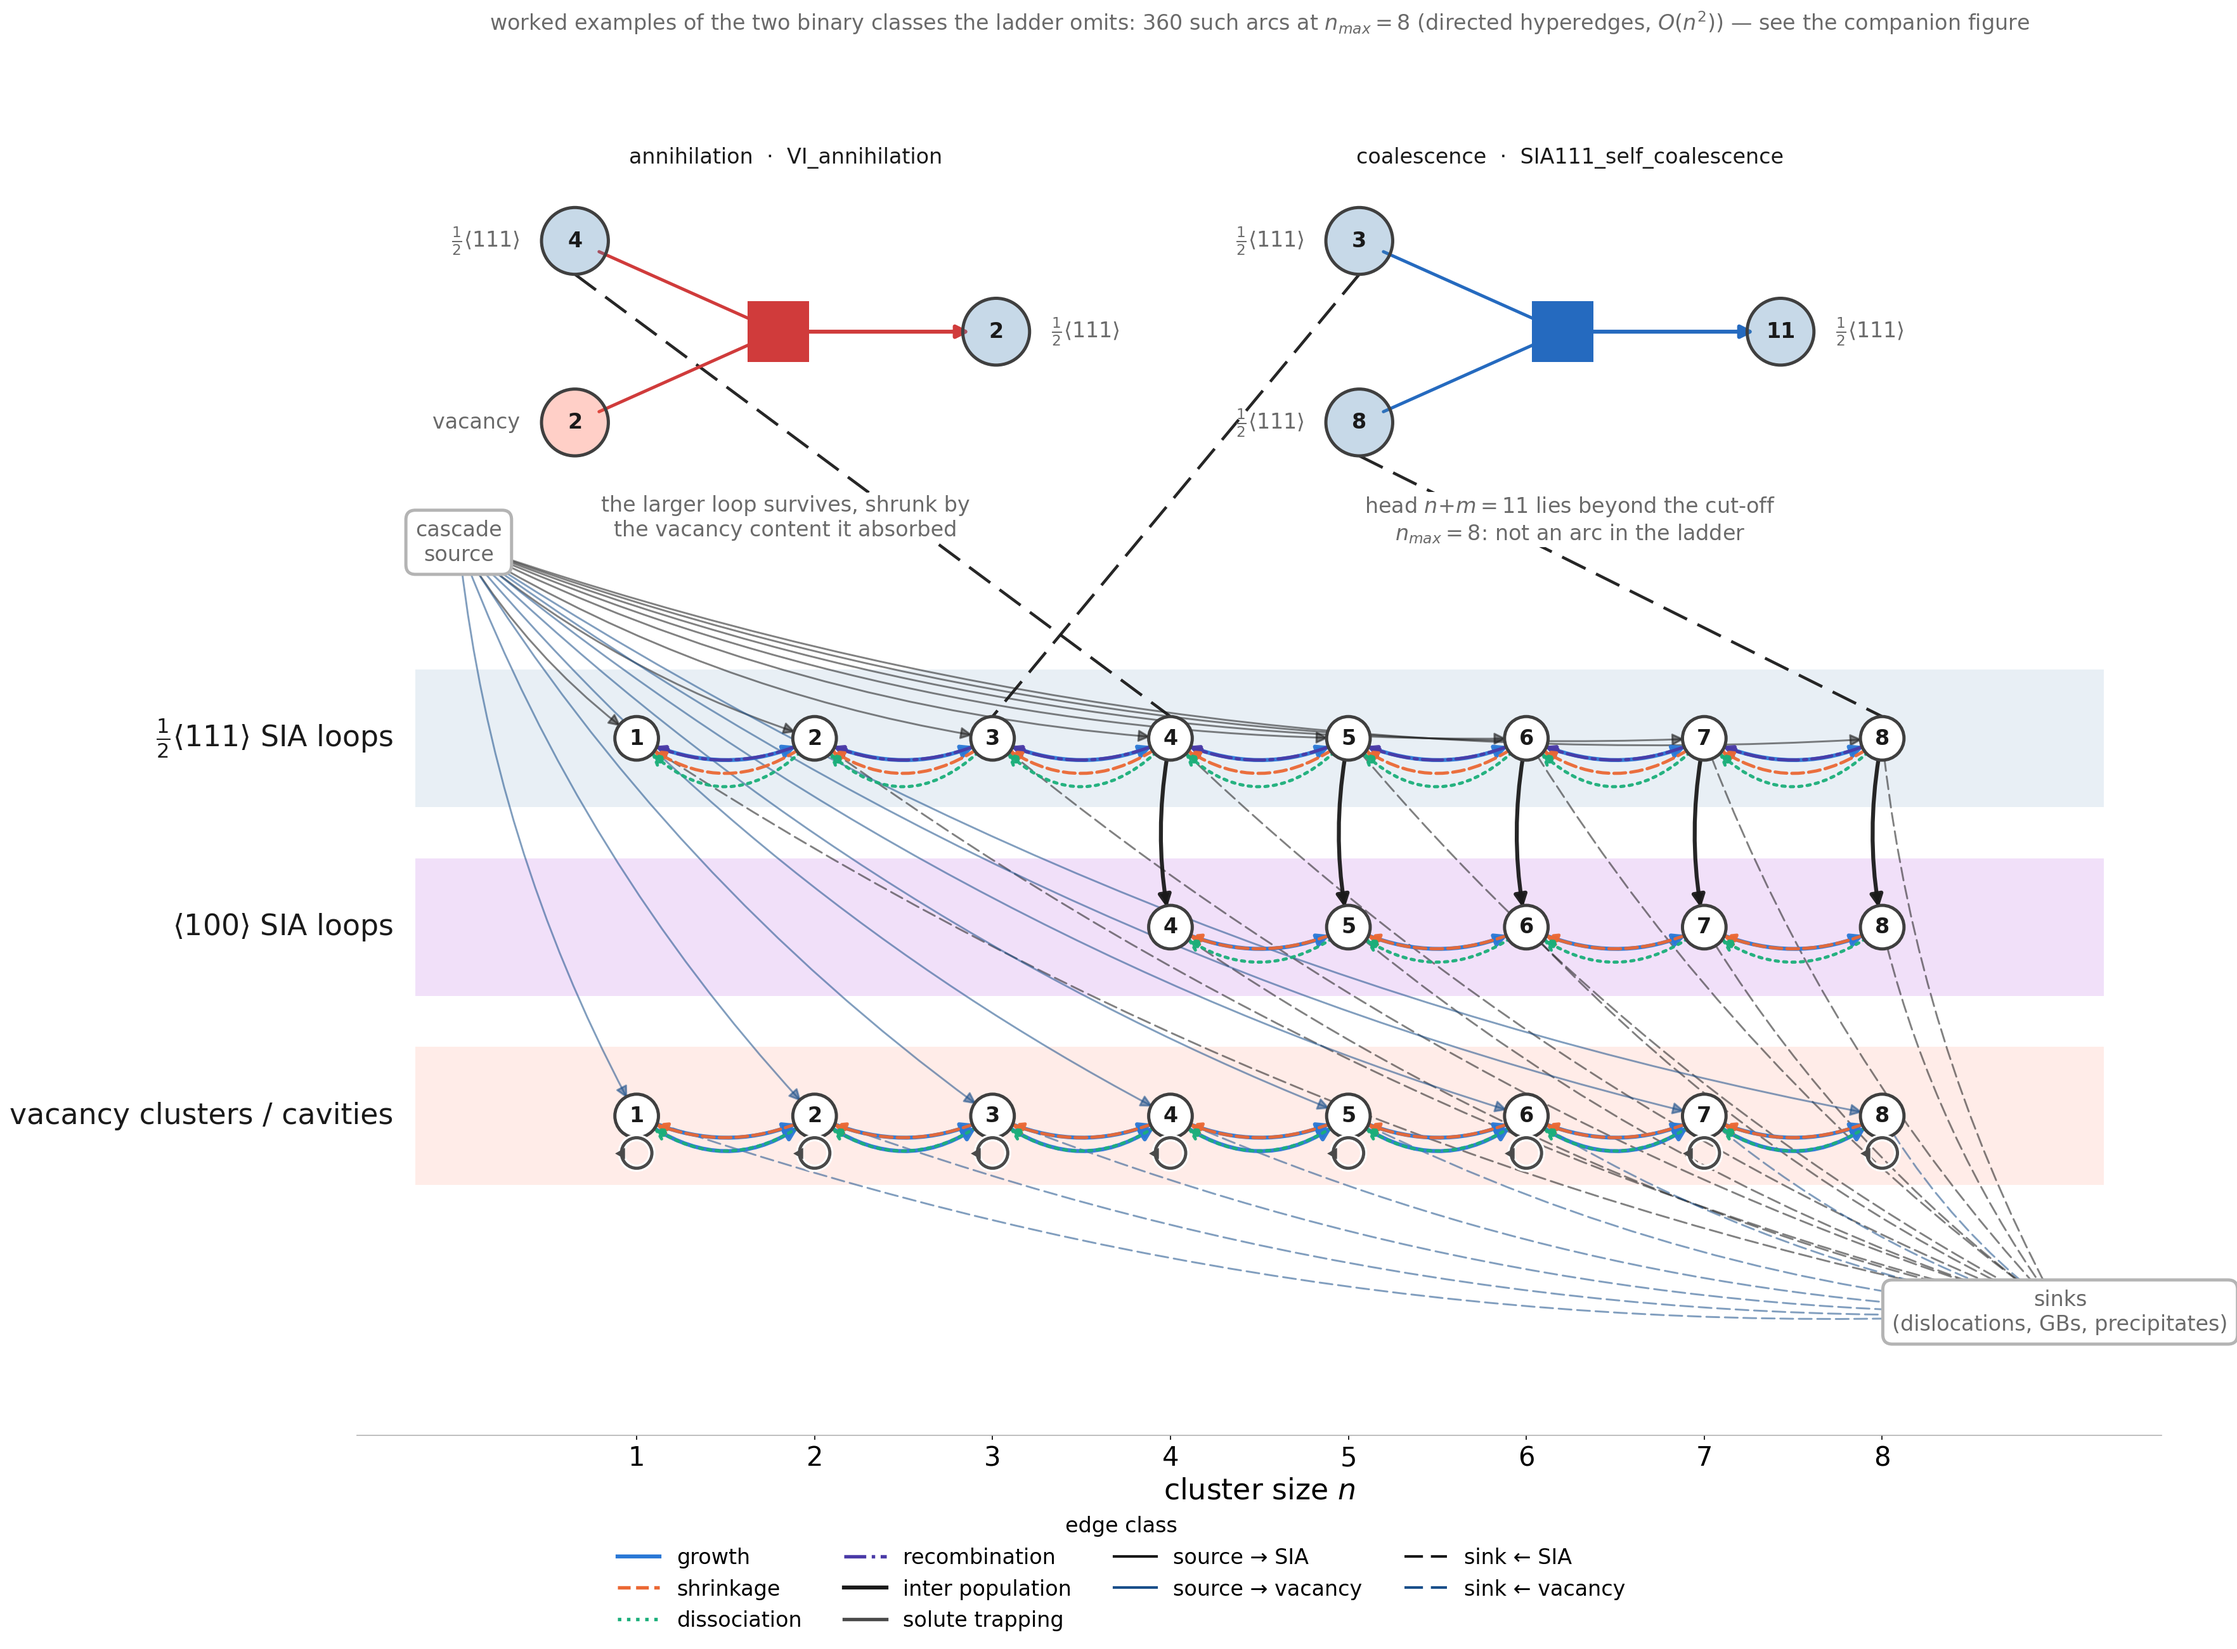
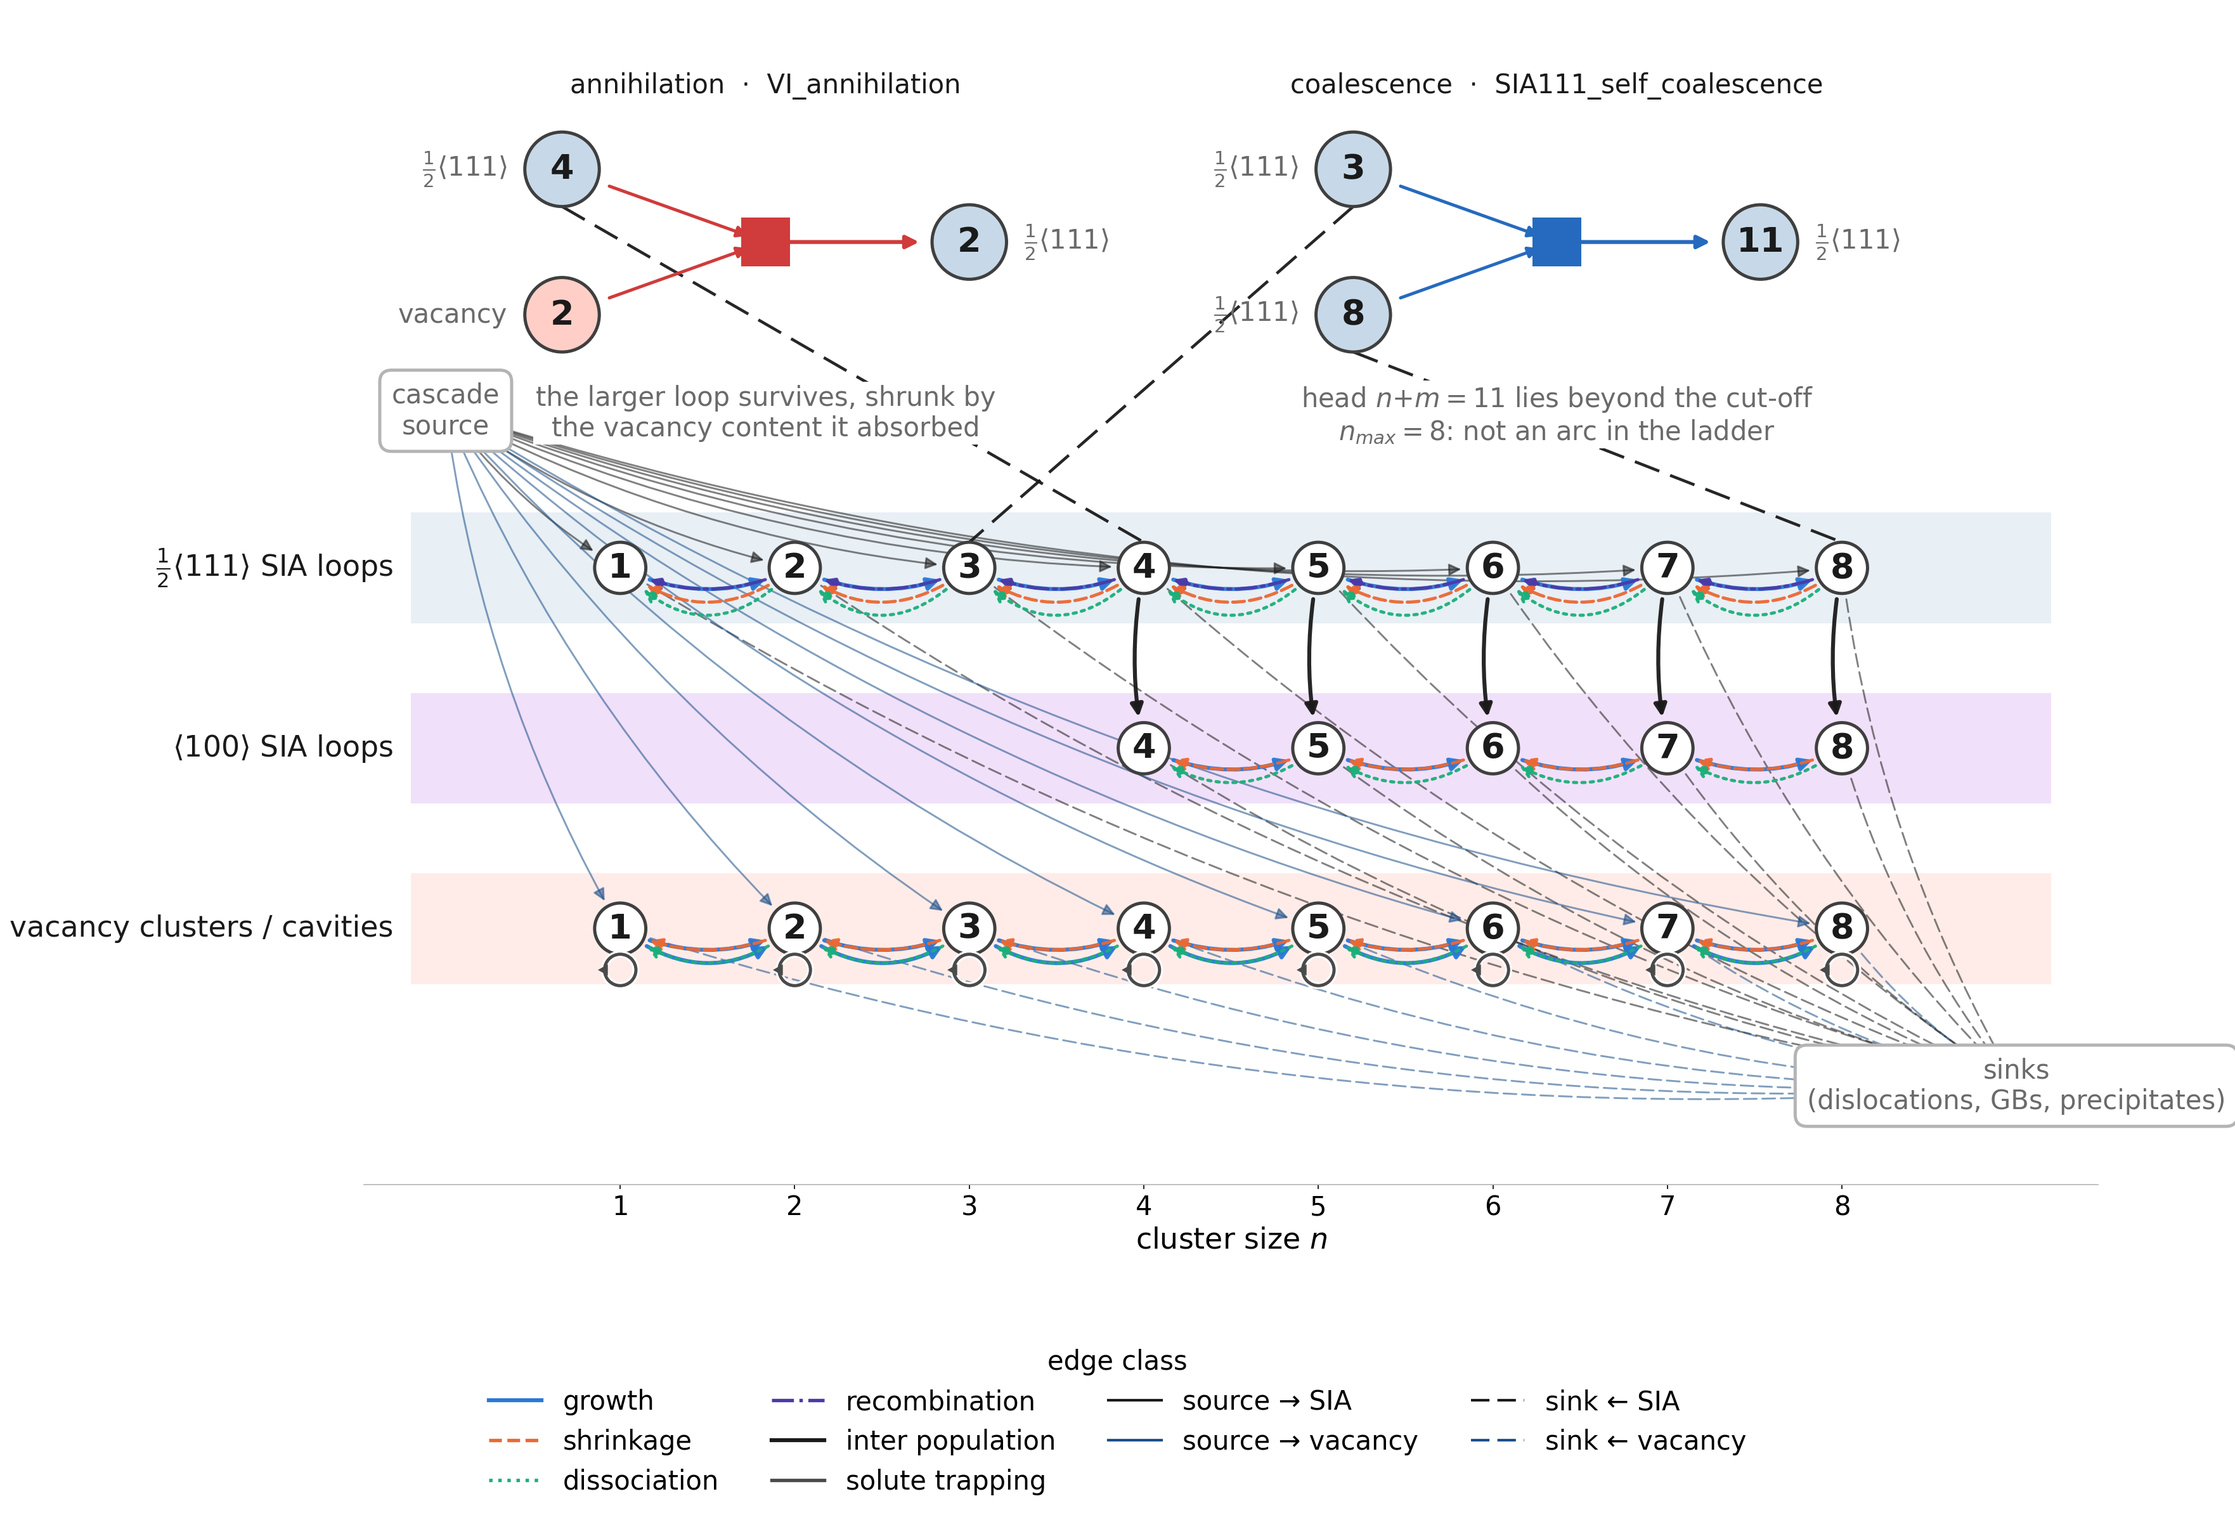
RAG figures: drop the header, 20 pt floor, and larger vertices
Three presentation changes, all requested.

NO HEADER.  The annotation across the top of the ladder read as a title,
which the suite suppresses on principle -- the document captions the
figure, so a baked-in line duplicates the caption.  Removed from both the
example and --no-examples branches.  NOTE: it carried the count of omitted
binary arcs and the pointer to the companion figure, so that belongs in
the LaTeX caption now; nothing else states it.

20 PT FLOOR.  _PLOT_FONTSIZE 16 -> 20, applied to BOTH figures so the pair
stays consistent on the page.  This departs from the suite's 22/20/16
scale, where 16 is the legend tier; the figures are dense schematics
rather than curve plots, and 16 pt did not survive reduction to column
width.  The taller legend needed the reserved band grown from 0.09 to
0.15 of figure height, which is what had pushed "edge class" onto the
x-axis label.

LARGER VERTICES.  Radius 0.30 -> 0.44 on the ladder and 0.46 -> 0.64 in
the example band, with the size label on its own _NODE_FONTSIZE = 26
tier.  Enlarging circles alone would have re-created the original defect
by closing the gap the arcs need, so the geometry opens with them:
x-spacing 2.45 -> 3.00, lane separation 2.6 -> 3.1, and the arrow shrink
raised 15 -> 24 pt so arrowheads still clear the vertex boundary.  The
solute-trapping loop and the example band's internal spacing scale to
match.

diff --git a/RadCluster_2_1/codes/make_rag_figure.py b/RadCluster_2_1/codes/make_rag_figure.py
@@ -62,7 +62,8 @@ from py_utils.core.to_networkx import to_networkx              # noqa: E402
 # ── house style (py_utils/visualization.py) ──────────────────────────────
 _LABEL_FONTSIZE = 22
 _TICK_FONTSIZE = 20
-_PLOT_FONTSIZE = 16
+_PLOT_FONTSIZE = 20
+_NODE_FONTSIZE = 26   # the size label inside a vertex
 _LW = 3.0
 _LW_THIN = 2.4
 _DPI = 150
@@ -109,9 +110,9 @@ _EDGE = {
 
 # Opened up on both axes: the previous 1.0/1.0 spacing left a 0.4-unit gap
 # between circles, far too short for a dash pattern to read.
-_X_SCALE = 2.45
-_LANE_Y = {"bulk-111": 5.2, "bulk-100": 2.6, "bulk": 0.0}
-_R = 0.30
+_X_SCALE = 3.00
+_LANE_Y = {"bulk-111": 6.2, "bulk-100": 3.1, "bulk": 0.0}
+_R = 0.44
 
 
 def _node_key(node: str):
@@ -127,7 +128,7 @@ def _node_key(node: str):
 # O(n_max^2) hyperedges), but one instance of each, drawn full size above the
 # ladder, states the two-tails/one-head convention that the count in the
 # header would otherwise leave abstract.
-_EX_R = 0.46
+_EX_R = 0.64
 _POP_SHORT = {
     "bulk-111": r"$\frac{1}{2}\langle 111\rangle$",
     "bulk-100": r"$\langle 100\rangle$",
@@ -172,7 +173,7 @@ def _draw_example(ax, x0, y, tails, head, edge_class, label, note=None):
     """One hyperedge: two tails -> reaction vertex -> one head."""
     colour = _HYPER[edge_class]
     tail_xy = [(x0, y + 1.25), (x0, y - 1.25)]
-    sq, hx = x0 + 2.8, x0 + 5.8
+    sq, hx = x0 + 3.5, x0 + 7.0
 
     def vertex(cx, cy, pop, n, side):
         ax.add_patch(Circle((cx, cy), _EX_R, facecolor=_POP[pop][0],
@@ -180,7 +181,7 @@ def _draw_example(ax, x0, y, tails, head, edge_class, label, note=None):
         ax.add_patch(Circle((cx, cy), _EX_R, facecolor="none",
                             edgecolor=_NODE_RING, lw=_LW_THIN, zorder=6))
         ax.text(cx, cy, str(n), ha="center", va="center", color=_INK,
-                fontweight="bold", fontsize=_PLOT_FONTSIZE, zorder=7)
+                fontweight="bold", fontsize=_NODE_FONTSIZE, zorder=7)
         dx = -(_EX_R + 0.3) if side == "left" else (_EX_R + 0.3)
         ax.text(cx + dx, cy, _POP_SHORT[pop], ha=side and
                 ("right" if side == "left" else "left"), va="center",
@@ -190,20 +191,20 @@ def _draw_example(ax, x0, y, tails, head, edge_class, label, note=None):
         vertex(tx, ty, pop, n, "left")
         ax.add_patch(FancyArrowPatch((tx, ty), (sq, y), arrowstyle="-|>",
                                      mutation_scale=17, lw=_LW_THIN,
-                                     color=colour, shrinkA=20, shrinkB=13,
+                                     color=colour, shrinkA=38, shrinkB=14,
                                      zorder=4))
     ax.add_patch(Rectangle((sq - 0.42, y - 0.42), 0.84, 0.84,
                            facecolor=colour, edgecolor="none", zorder=6))
     ax.add_patch(FancyArrowPatch((sq, y), (hx, y), arrowstyle="-|>",
                                  mutation_scale=20, lw=_LW, color=colour,
-                                 shrinkA=13, shrinkB=20, zorder=4))
+                                 shrinkA=14, shrinkB=38, zorder=4))
     vertex(hx, y, head[0], head[1], "right")
 
-    ax.text(x0 + 2.9, y + 2.25, f"{edge_class}  ·  {label}", ha="center",
+    ax.text(x0 + 3.5, y + 2.45, f"{edge_class}  ·  {label}", ha="center",
             va="bottom", color=_INK, fontsize=_PLOT_FONTSIZE, zorder=8,
             bbox=dict(facecolor="white", edgecolor="none", pad=2.0))
     if note:
-        ax.text(x0 + 2.9, y - 2.25, note, ha="center", va="top",
+        ax.text(x0 + 3.5, y - 2.45, note, ha="center", va="top",
                 color=_GREY_TEXT, fontsize=_PLOT_FONTSIZE, zorder=8,
                 bbox=dict(facecolor="white", edgecolor="none", pad=2.0))
 
@@ -237,7 +238,7 @@ def build_figure(n_max: int, out: Path, examples: bool = True) -> None:
     pos["SINK"] = (x_hi, _LANE_Y["bulk"] - 2.7)
 
     _w = 1.95 * n_max + 8.0
-    fig, ax = plt.subplots(figsize=(_w, _w / 1.34 if examples else 12.0))
+    fig, ax = plt.subplots(figsize=(_w, _w / 1.42 if examples else 12.0))
 
     # ── lane bands: population identity, large and low-saturation ────────
     for pop, y in _LANE_Y.items():
@@ -281,7 +282,7 @@ def build_figure(n_max: int, out: Path, examples: bool = True) -> None:
             # units below the lane, so an untangent loop drawn underneath
             # them either disappears or reads as a second vertex.
             x, y = pos[u]
-            cx, cy, r = x, y - _R - 0.21, 0.21
+            cx, cy, r = x, y - _R - 0.27, 0.27
             ax.add_patch(Circle((cx, cy), r, fill=False, ec="white",
                                 lw=lw + 3.0, zorder=6))
             ax.add_patch(Circle((cx, cy), r, fill=False, ec=colour,
@@ -300,7 +301,7 @@ def build_figure(n_max: int, out: Path, examples: bool = True) -> None:
         ax.add_patch(FancyArrowPatch(
             pos[u], pos[v], connectionstyle=f"arc3,rad={rad}",
             arrowstyle="-|>", mutation_scale=19,
-            shrinkA=15, shrinkB=15,
+            shrinkA=24, shrinkB=24,
             lw=lw, ls=ls, color=colour, alpha=alpha, zorder=zorder))
 
     # ── vertices ─────────────────────────────────────────────────────────
@@ -313,7 +314,7 @@ def build_figure(n_max: int, out: Path, examples: bool = True) -> None:
         ax.add_patch(Circle((x, y), _R, facecolor="white",
                             edgecolor=_NODE_RING, lw=_LW_THIN, zorder=5))
         ax.text(x, y, str(n), ha="center", va="center", color=_INK,
-                fontweight="bold", fontsize=_PLOT_FONTSIZE, zorder=6)
+                fontweight="bold", fontsize=_NODE_FONTSIZE, zorder=6)
 
     for pop, y in _LANE_Y.items():
         ax.text(x_lo - 0.9, y, _POP[pop][1], ha="right", va="center",
@@ -342,14 +343,14 @@ def build_figure(n_max: int, out: Path, examples: bool = True) -> None:
         Line2D([], [], color=_FAN_VAC, ls=_dash, lw=2.0, label="sink ← vacancy"),
     ]
     fig.legend(handles=handles, loc="lower center",
-               bbox_to_anchor=(0.5, 0.012), frameon=False,
+               bbox_to_anchor=(0.5, 0.008), frameon=False,
                title="edge class", ncol=4)
 
     if examples:
         ey = _LANE_Y["bulk-111"] + 5.6
         lab_a = find_hyperedge(rag, "annihilation",
                                [("bulk", 2), ("bulk-111", 4)], ("bulk-111", 2))
-        _draw_example(ax, x_lo + 1.6, ey,
+        _draw_example(ax, x_lo + 2.0, ey,
                       [("bulk-111", 4), ("bulk", 2)], ("bulk-111", 2),
                       "annihilation", lab_a,
                       "the larger loop survives, shrunk by\nthe vacancy "
@@ -357,24 +358,11 @@ def build_figure(n_max: int, out: Path, examples: bool = True) -> None:
         lab_c = find_hyperedge(rag, "coalescence",
                                [("bulk-111", 3), ("bulk-111", 8)],
                                ("bulk-111", 11))
-        _draw_example(ax, x_lo + 12.4, ey,
+        _draw_example(ax, x_lo + 15.6, ey,
                       [("bulk-111", 3), ("bulk-111", 8)], ("bulk-111", 11),
                       "coalescence", lab_c,
                       f"head $n{{+}}m=11$ lies beyond the cut-off\n"
                       f"$n_{{max}}={n_max}$: not an arc in the ladder")
-        ax.annotate(
-            "worked examples of the two binary classes the ladder omits: "
-            f"{n_binary} such arcs at $n_{{max}}={n_max}$ "
-            "(directed hyperedges, $O(n^2)$) — see the companion figure",
-            xy=(0.5, 1.004), xycoords="axes fraction", ha="center",
-            va="bottom", color=_GREY_TEXT, fontsize=_PLOT_FONTSIZE)
-    else:
-        ax.annotate(
-            f"binary classes omitted: {n_binary} coalescence + annihilation "
-            f"arcs at $n_{{max}}={n_max}$ (directed hyperedges, $O(n^2)$)",
-            xy=(0.5, 1.004), xycoords="axes fraction", ha="center",
-            va="bottom", color=_GREY_TEXT, fontsize=_PLOT_FONTSIZE)
-
     ax.set_xlabel("cluster size $n$")
     ax.set_xlim(x_lo - 1.4, x_hi + 1.4)
     top = _LANE_Y["bulk-111"] + (9.6 if examples else 4.3)
@@ -388,7 +376,7 @@ def build_figure(n_max: int, out: Path, examples: bool = True) -> None:
     ax.set_aspect("equal")
 
     # No title: suppressed suite-wide; the document captions the figure.
-    fig.tight_layout(rect=(0.0, 0.09 if examples else 0.17, 1.0, 1.0))
+    fig.tight_layout(rect=(0.0, 0.15 if examples else 0.23, 1.0, 1.0))
     out.parent.mkdir(parents=True, exist_ok=True)
     fig.savefig(out, dpi=_DPI, bbox_inches="tight", facecolor="white")
     print(f"nodes {G.number_of_nodes()}  unary arcs {G.number_of_edges()}  "

diff --git a/RadCluster_2_1/codes/make_rag_hyperedge_figure.py b/RadCluster_2_1/codes/make_rag_hyperedge_figure.py
@@ -53,7 +53,7 @@ from py_utils.core.to_networkx import to_networkx              # noqa: E402
 # ── house style (py_utils/visualization.py) ──────────────────────────────
 _LABEL_FONTSIZE = 22
 _TICK_FONTSIZE = 20
-_PLOT_FONTSIZE = 16
+_PLOT_FONTSIZE = 20
 _LW = 3.0
 _LW_THIN = 2.4
 _DPI = 150
